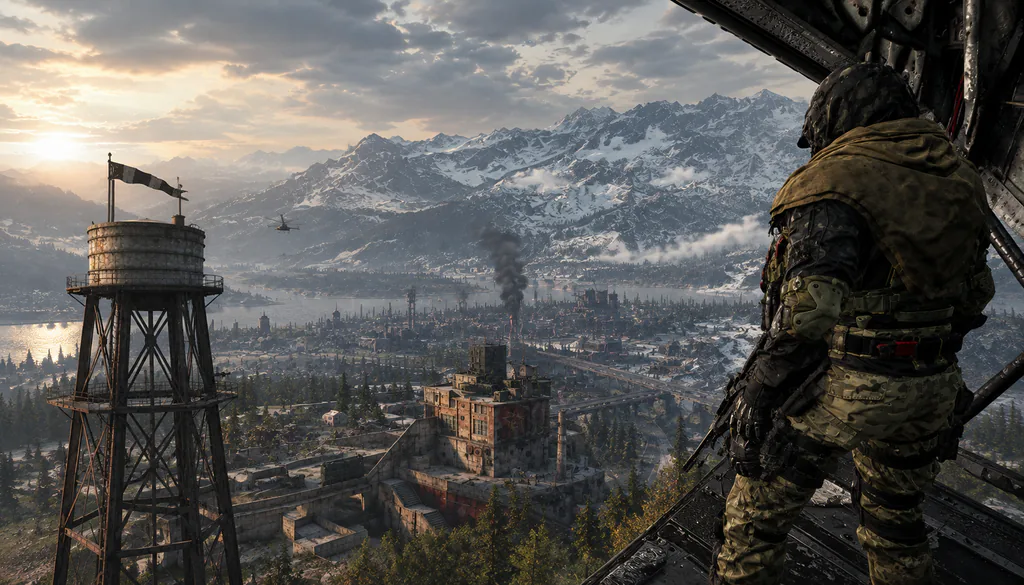
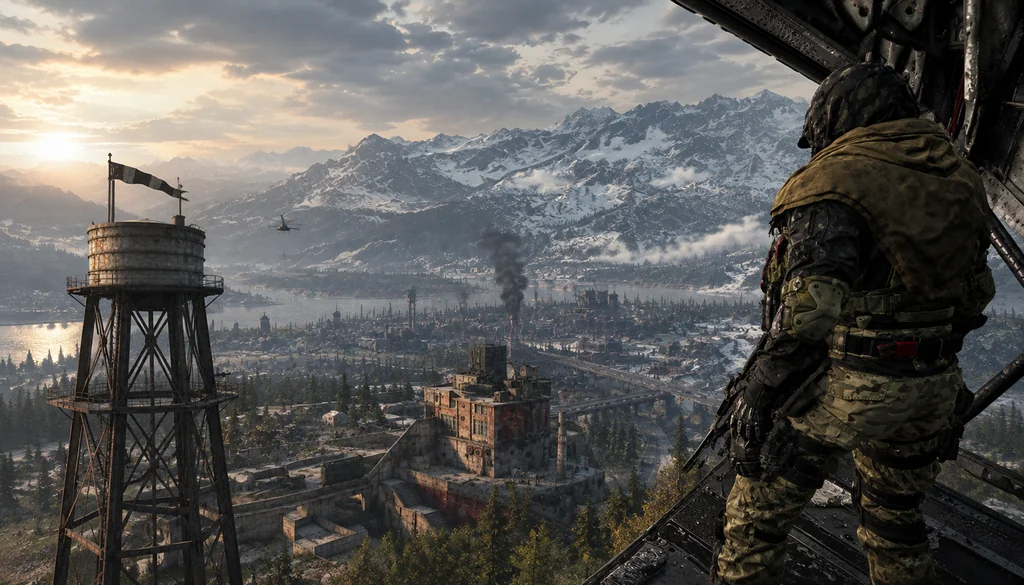
Show full operator head in hero by matching source aspect
- Regenerate hero WebP from full-height source (no top crop)
- Set hero bar to 1.75:1 to match art and prevent helmet clipping
- Update import script with buildHeroCropBuffer for future regen
- Refresh hero intrinsic height metadata

diff --git a/src/lib/responsive-images.ts b/src/lib/responsive-images.ts
@@ -66,7 +66,7 @@ export const heroMimeType = 'image/webp';
 
 /** Intrinsic dimensions of the default LCP asset (1199w variant). */
 export const heroWidth = 1199;
-export const heroHeight = 506;
+export const heroHeight = 685;
 
 /** Responsive widths for below-fold content images. */
 export const contentWidths = [480, 960] as const;
